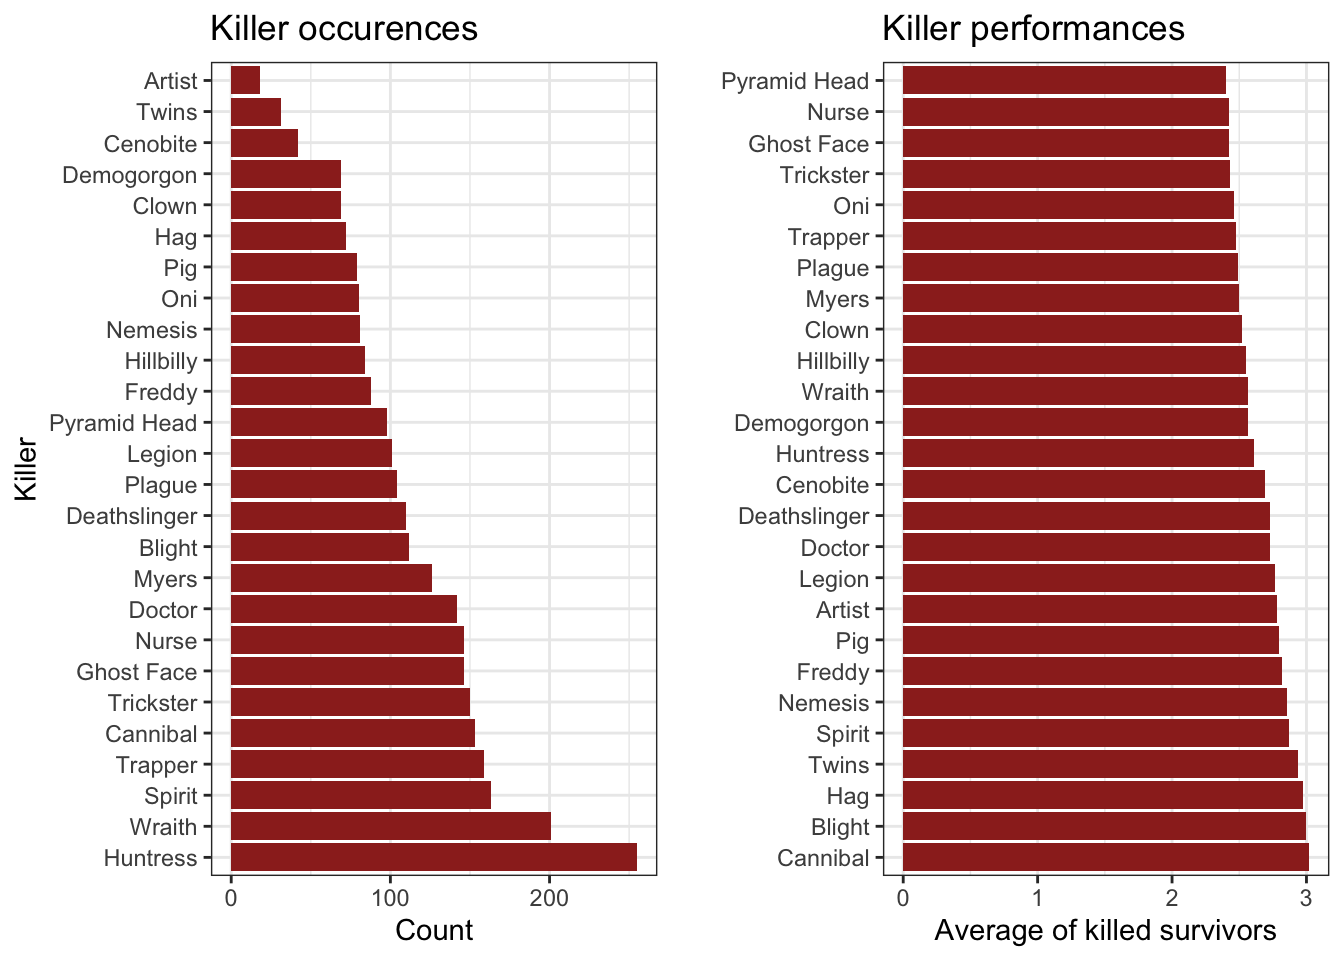
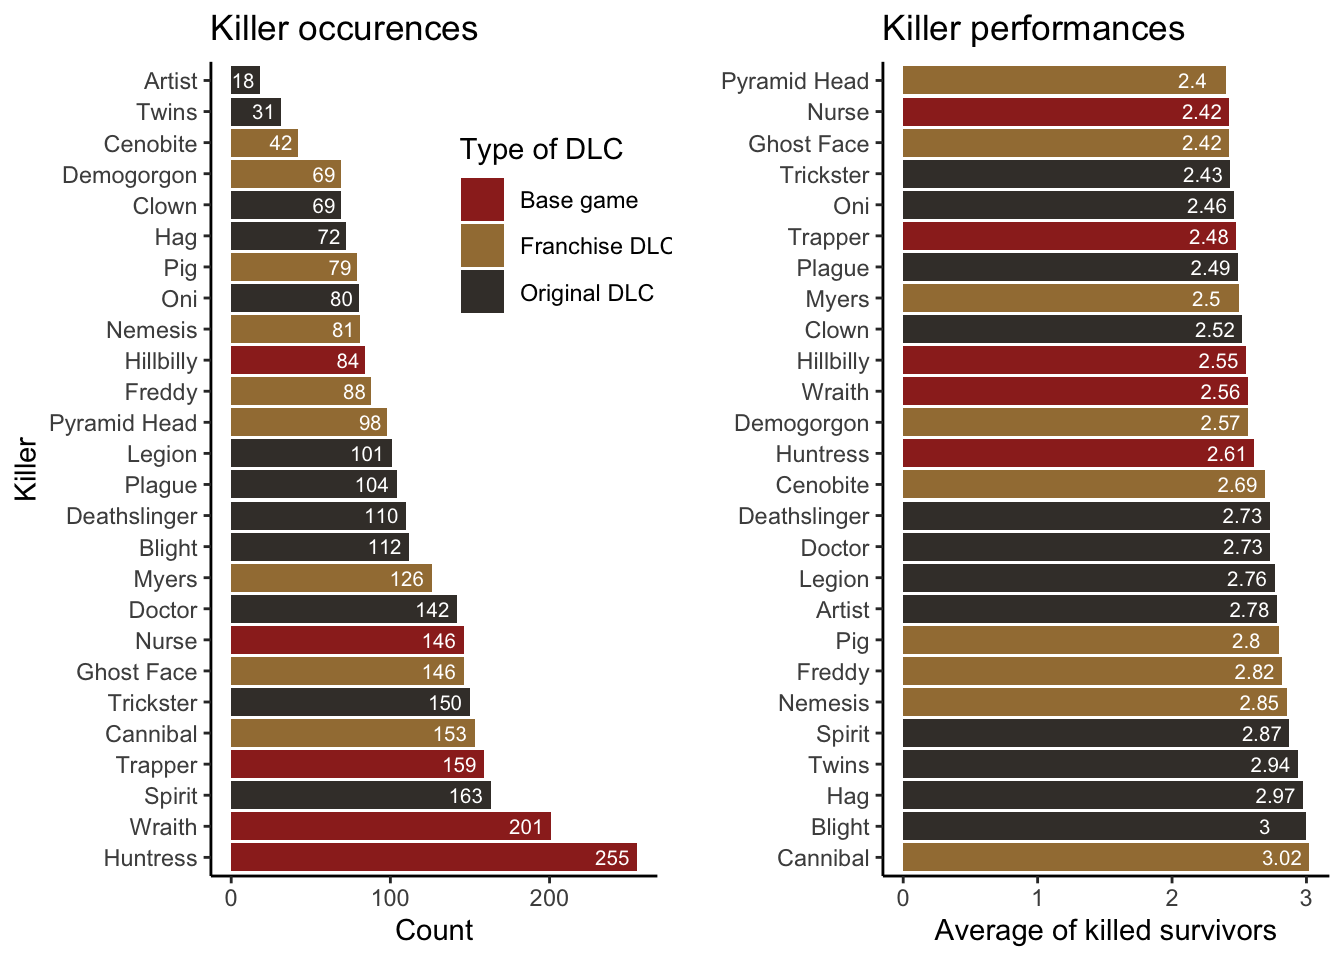
tweaked some details about pick rate vs performance

diff --git a/data-visualization-dbd.html b/data-visualization-dbd.html
@@ -2,7 +2,7 @@
 <html xmlns="http://www.w3.org/1999/xhtml" lang="en" xml:lang="en"><head>
 
 <meta charset="utf-8">
-<meta name="generator" content="quarto-1.3.353">
+<meta name="generator" content="quarto-1.3.450">
 
 <meta name="viewport" content="width=device-width, initial-scale=1.0, user-scalable=yes">
 
@@ -77,7 +77,7 @@ ul.task-list li input[type="checkbox"] {
 <div class="cell">
 <div class="cell-output cell-output-stderr">
 <pre><code>── Attaching core tidyverse packages ──────────────────────── tidyverse 2.0.0 ──
-✔ dplyr     1.1.3     ✔ readr     2.1.4
+✔ dplyr     1.1.4     ✔ readr     2.1.4
 ✔ forcats   1.0.0     ✔ stringr   1.5.1
 ✔ ggplot2   3.4.4     ✔ tibble    3.2.1
 ✔ lubridate 1.9.3     ✔ tidyr     1.3.0
@@ -89,6 +89,21 @@ ul.task-list li input[type="checkbox"] {
 Registered S3 method overwritten by 'GGally':
   method from   
   +.gg   ggplot2
+
+No renderer backend detected. gganimate will default to writing frames to separate files
+Consider installing:
+- the `gifski` package for gif output
+- the `av` package for video output
+and restarting the R session
+
+
+Attaching package: 'gridExtra'
+
+
+The following object is masked from 'package:dplyr':
+
+    combine
+
 
 Rows: 2879 Columns: 8
 ── Column specification ────────────────────────────────────────────────────────
@@ -122,12 +137,12 @@ lgl (1): SBMM
 <h2 class="anchored" data-anchor-id="repairs-density">Repairs Density</h2>
 <div class="cell">
 <div class="cell-output-display">
-<p><img src="data-visualization-dbd_files/figure-html/unnamed-chunk-2-1.png" class="img-fluid" width="672"></p>
+<p><img src="data-visualization-dbd_files/figure-html/unnamed-chunk-1-1.png" class="img-fluid" width="672"></p>
 </div>
 </div>
 <div class="cell">
 <div class="cell-output-display">
-<p><img src="data-visualization-dbd_files/figure-html/unnamed-chunk-3-1.png" class="img-fluid" width="672"></p>
+<p><img src="data-visualization-dbd_files/figure-html/unnamed-chunk-2-1.png" class="img-fluid" width="672"></p>
 </div>
 </div>
 </section>
@@ -135,23 +150,31 @@ lgl (1): SBMM
 <h2 class="anchored" data-anchor-id="escape-density">Escape Density</h2>
 <div class="cell">
 <div class="cell-output-display">
+<p><img src="data-visualization-dbd_files/figure-html/unnamed-chunk-3-1.png" class="img-fluid" width="672"></p>
+</div>
+</div>
+<div class="cell">
+<div class="cell-output-display">
 <p><img src="data-visualization-dbd_files/figure-html/unnamed-chunk-4-1.png" class="img-fluid" width="672"></p>
 </div>
 </div>
+<p>Let’s have a look at our escape rates whenever 5 generators where repaired:</p>
 <div class="cell">
 <div class="cell-output-display">
 <p><img src="data-visualization-dbd_files/figure-html/unnamed-chunk-5-1.png" class="img-fluid" width="672"></p>
 </div>
 </div>
-<p>Let’s have a look at our escape rates whenever 5 generators where repaired:</p>
+</section>
+<section id="map-occurrences" class="level2">
+<h2 class="anchored" data-anchor-id="map-occurrences">Map occurrences</h2>
 <div class="cell">
 <div class="cell-output-display">
 <p><img src="data-visualization-dbd_files/figure-html/unnamed-chunk-6-1.png" class="img-fluid" width="672"></p>
 </div>
 </div>
 </section>
-<section id="escape-and-repair-density-depending-on-sbmm" class="level2">
-<h2 class="anchored" data-anchor-id="escape-and-repair-density-depending-on-sbmm">Escape and repair density depending on SBMM</h2>
+<section id="repairs-and-escapes-density-per-map" class="level2">
+<h2 class="anchored" data-anchor-id="repairs-and-escapes-density-per-map">Repairs and Escapes density per map</h2>
 <div class="cell">
 <div class="cell-output-display">
 <p><img src="data-visualization-dbd_files/figure-html/unnamed-chunk-7-1.png" class="img-fluid" width="672"></p>
@@ -163,24 +186,19 @@ lgl (1): SBMM
 </div>
 </div>
 </section>
-<section id="killer-occurrences" class="level2">
-<h2 class="anchored" data-anchor-id="killer-occurrences">Killer occurrences</h2>
+<section id="gate-escapes-vs.-hatch-escapes" class="level2">
+<h2 class="anchored" data-anchor-id="gate-escapes-vs.-hatch-escapes">Gate escapes vs.&nbsp;Hatch escapes</h2>
 <div class="cell">
 <div class="cell-output-display">
 <p><img src="data-visualization-dbd_files/figure-html/unnamed-chunk-9-1.png" class="img-fluid" width="672"></p>
 </div>
-</div>
-</section>
-<section id="map-occurrences" class="level2">
-<h2 class="anchored" data-anchor-id="map-occurrences">Map occurrences</h2>
-<div class="cell">
 <div class="cell-output-display">
-<p><img src="data-visualization-dbd_files/figure-html/unnamed-chunk-10-1.png" class="img-fluid" width="672"></p>
+<p><img src="data-visualization-dbd_files/figure-html/unnamed-chunk-9-2.png" class="img-fluid" width="672"></p>
 </div>
 </div>
 </section>
-<section id="repairs-and-escapes-density-per-map" class="level2">
-<h2 class="anchored" data-anchor-id="repairs-and-escapes-density-per-map">Repairs and Escapes density per map</h2>
+<section id="hatch-escapes-depending-on-the-killers" class="level2">
+<h2 class="anchored" data-anchor-id="hatch-escapes-depending-on-the-killers">Hatch escapes depending on the killers</h2>
 <div class="cell">
 <div class="cell-output-display">
 <p><img src="data-visualization-dbd_files/figure-html/unnamed-chunk-11-1.png" class="img-fluid" width="672"></p>
@@ -192,98 +210,16 @@ lgl (1): SBMM
 </div>
 </div>
 </section>
-<section id="gate-escapes-vs.-hatch-escapes" class="level2">
-<h2 class="anchored" data-anchor-id="gate-escapes-vs.-hatch-escapes">Gate escapes vs.&nbsp;Hatch escapes</h2>
-<div class="cell">
-<div class="cell-output-display">
-<p><img src="data-visualization-dbd_files/figure-html/unnamed-chunk-13-1.png" class="img-fluid" width="672"></p>
-</div>
-<div class="cell-output-display">
-<p><img src="data-visualization-dbd_files/figure-html/unnamed-chunk-13-2.png" class="img-fluid" width="672"></p>
-</div>
-</div>
-<div class="cell">
-<div class="cell-output cell-output-stdout">
-<pre><code># A tibble: 640 × 9
-   Map   Killer     `# Finished generators` `# Escaped Survivors` Comments      
-   &lt;chr&gt; &lt;chr&gt;                        &lt;dbl&gt;                 &lt;dbl&gt; &lt;chr&gt;         
- 1 OR    Cannibal                         5                     1 1 hatch + cam…
- 2 SH    Myers                            2                     1 1 hatch + farm
- 3 RF    Nurse                            2                     1 Russian roule…
- 4 BWS   Pig                              3                     1 Farm at the e…
- 5 HAW   Legion                           3                     1 1 hatch       
- 6 SH    Nurse                            3                     1 1 hatch       
- 7 AVW   Freddy                           4                     1 1 hatch       
- 8 YAM   Spirit                           3                     1 1 hatch       
- 9 AVW   Ghost Face                       3                     1 1 hatch       
-10 LER   Trapper                          4                     1 1 hatch + Camp
-# ℹ 630 more rows
-# ℹ 4 more variables: `# Hatch escapes` &lt;dbl&gt;, Season &lt;chr&gt;, SBMM &lt;lgl&gt;,
-#   gate_escapes &lt;dbl&gt;</code></pre>
-</div>
-</div>
-</section>
-<section id="hatch-escapes-depending-on-the-killers" class="level2">
-<h2 class="anchored" data-anchor-id="hatch-escapes-depending-on-the-killers">Hatch escapes depending on the killers</h2>
-<div class="cell">
-<div class="cell-output-display">
-<p><img src="data-visualization-dbd_files/figure-html/unnamed-chunk-15-1.png" class="img-fluid" width="672"></p>
-</div>
-</div>
-<div class="cell">
-<div class="cell-output cell-output-stdout">
-<pre><code># A tibble: 26 × 4
-   Killer       TotalEncounters TotalHatchEscapes Frequency
-   &lt;chr&gt;                  &lt;int&gt;             &lt;dbl&gt;     &lt;dbl&gt;
- 1 Artist                    18                 2    0.111 
- 2 Blight                   112                19    0.170 
- 3 Cannibal                 153                34    0.222 
- 4 Cenobite                  42                 4    0.0952
- 5 Clown                     69                 8    0.116 
- 6 Deathslinger             110                20    0.182 
- 7 Demogorgon                69                15    0.217 
- 8 Doctor                   142                15    0.106 
- 9 Freddy                    88                20    0.227 
-10 Ghost Face               146                21    0.144 
-# ℹ 16 more rows</code></pre>
-</div>
-<div class="cell-output-display">
-<p><img src="data-visualization-dbd_files/figure-html/unnamed-chunk-16-1.png" class="img-fluid" width="672"></p>
-</div>
-</div>
-</section>
 <section id="hatch-escapes-depending-on-the-maps" class="level2">
 <h2 class="anchored" data-anchor-id="hatch-escapes-depending-on-the-maps">Hatch escapes depending on the maps</h2>
 <div class="cell">
 <div class="cell-output-display">
-<p><img src="data-visualization-dbd_files/figure-html/unnamed-chunk-17-1.png" class="img-fluid" width="672"></p>
+<p><img src="data-visualization-dbd_files/figure-html/unnamed-chunk-13-1.png" class="img-fluid" width="672"></p>
 </div>
 </div>
 <div class="cell">
-<div class="cell-output cell-output-stdout">
-<pre><code># A tibble: 17 × 4
-   Map   TotalEncounters TotalHatchEscapes Frequency
-   &lt;chr&gt;           &lt;int&gt;             &lt;dbl&gt;     &lt;dbl&gt;
- 1 AVW               378                71     0.188
- 2 BAP               129                27     0.209
- 3 BWS               184                21     0.114
- 4 CF                360                58     0.161
- 5 CP                198                43     0.217
- 6 DDS               102                14     0.137
- 7 EOC                30                 3     0.1  
- 8 GID               105                19     0.181
- 9 HA                146                17     0.116
-10 HAW                96                27     0.281
-11 LER               100                16     0.16 
-12 MCM               374                57     0.152
-13 OR                152                35     0.230
-14 RCPD               44                 6     0.136
-15 RF                184                34     0.185
-16 SH                126                24     0.190
-17 YAM               171                28     0.164</code></pre>
-</div>
 <div class="cell-output-display">
-<p><img src="data-visualization-dbd_files/figure-html/unnamed-chunk-18-1.png" class="img-fluid" width="672"></p>
+<p><img src="data-visualization-dbd_files/figure-html/unnamed-chunk-14-1.png" class="img-fluid" width="672"></p>
 </div>
 </div>
 </section>
@@ -291,23 +227,7 @@ lgl (1): SBMM
 <h2 class="anchored" data-anchor-id="relationship-between-repair-rate-and-escape-rate">Relationship between repair rate and escape rate</h2>
 <div class="cell">
 <div class="cell-output-display">
-<p><img src="data-visualization-dbd_files/figure-html/unnamed-chunk-19-1.png" class="img-fluid" width="672"></p>
-</div>
-</div>
-</section>
-<section id="relationship-between-repair-rate-and-escape-rate-per-map-small-multiples" class="level2">
-<h2 class="anchored" data-anchor-id="relationship-between-repair-rate-and-escape-rate-per-map-small-multiples">Relationship between repair rate and escape rate per map (small multiples)</h2>
-<div class="cell">
-<div class="cell-output-display">
-<p><img src="data-visualization-dbd_files/figure-html/unnamed-chunk-20-1.png" class="img-fluid" width="672"></p>
-</div>
-</div>
-</section>
-<section id="relationship-between-repair-rate-and-escape-rate-per-killer-small-multiples" class="level2">
-<h2 class="anchored" data-anchor-id="relationship-between-repair-rate-and-escape-rate-per-killer-small-multiples">Relationship between repair rate and escape rate per killer (small multiples)</h2>
-<div class="cell">
-<div class="cell-output-display">
-<p><img src="data-visualization-dbd_files/figure-html/unnamed-chunk-21-1.png" class="img-fluid" width="672"></p>
+<p><img src="data-visualization-dbd_files/figure-html/Relationship%20between%20repair%20rate%20and%20escape%20rate%20per%20killer%20(small%20multiples)-1.png" class="img-fluid" width="672"></p>
 </div>
 </div>
 <div class="cell">
@@ -316,44 +236,32 @@ lgl (1): SBMM
 The first warning was:
 ℹ In argument: `Correlation = cor(`# Finished generators`, `# Escaped
   Survivors`)`.
-ℹ In group 4: `Map = "AVW"`, `Killer = "Cenobite"`.
+ℹ In group 4: `Map = "AVW"` and `Killer = "Cenobite"`.
 Caused by warning in `cor()`:
 ! the standard deviation is zero
 ℹ Run `dplyr::last_dplyr_warnings()` to see the 27 remaining warnings.</code></pre>
 </div>
 <div class="cell-output-display">
-<p><img src="data-visualization-dbd_files/figure-html/unnamed-chunk-22-1.png" class="img-fluid" width="672"></p>
+<p><img src="data-visualization-dbd_files/figure-html/Heatmap-1.png" class="img-fluid" width="672"></p>
 </div>
 </div>
 </section>
-<section id="heatmap-of-the-average-escape-rate-per-killer-and-per-map" class="level2">
-<h2 class="anchored" data-anchor-id="heatmap-of-the-average-escape-rate-per-killer-and-per-map">Heatmap of the average escape rate per killer and per map</h2>
+<section id="evolution-of-the-escape-rate" class="level2">
+<h2 class="anchored" data-anchor-id="evolution-of-the-escape-rate">Evolution of the escape rate</h2>
 <div class="cell">
 <div class="cell-output-display">
-<p><img src="data-visualization-dbd_files/figure-html/unnamed-chunk-24-1.png" class="img-fluid" width="672"></p>
+<p><img src="data-visualization-dbd_files/figure-html/unnamed-chunk-15-1.png" class="img-fluid" width="672"></p>
 </div>
 </div>
+</section>
+<section id="killer-pick-rate-against-performance" class="level2">
+<h2 class="anchored" data-anchor-id="killer-pick-rate-against-performance">Killer pick rate against performance</h2>
 <div class="cell">
-<div class="cell-output cell-output-stdout">
-<pre><code># A tibble: 442 × 5
-   Map   Killer       TotalEncounters TotalHatchEscapes Frequency
-   &lt;chr&gt; &lt;chr&gt;                  &lt;int&gt;             &lt;dbl&gt;     &lt;dbl&gt;
- 1 AVW   Artist                     4                 1     0.25 
- 2 AVW   Blight                    23                 4     0.174
- 3 AVW   Cannibal                  25                 5     0.2  
- 4 AVW   Cenobite                   3                 0     0    
- 5 AVW   Clown                      7                 0     0    
- 6 AVW   Deathslinger              18                 6     0.333
- 7 AVW   Demogorgon                 9                 2     0.222
- 8 AVW   Doctor                    18                 4     0.222
- 9 AVW   Freddy                     8                 3     0.375
-10 AVW   Ghost Face                24                 4     0.167
-# ℹ 432 more rows</code></pre>
-</div>
 <div class="cell-output-display">
-<p><img src="data-visualization-dbd_files/figure-html/unnamed-chunk-25-1.png" class="img-fluid" width="672"></p>
+<p><img src="data-visualization-dbd_files/figure-html/Pick%20Rate%20vs.%20Performance%20side%20by%20side-1.png" class="img-fluid" width="672"></p>
 </div>
 </div>
+<!-- ## Heatmap of the average escape rate per killer and per map -->
 </section>
 
 </main>
